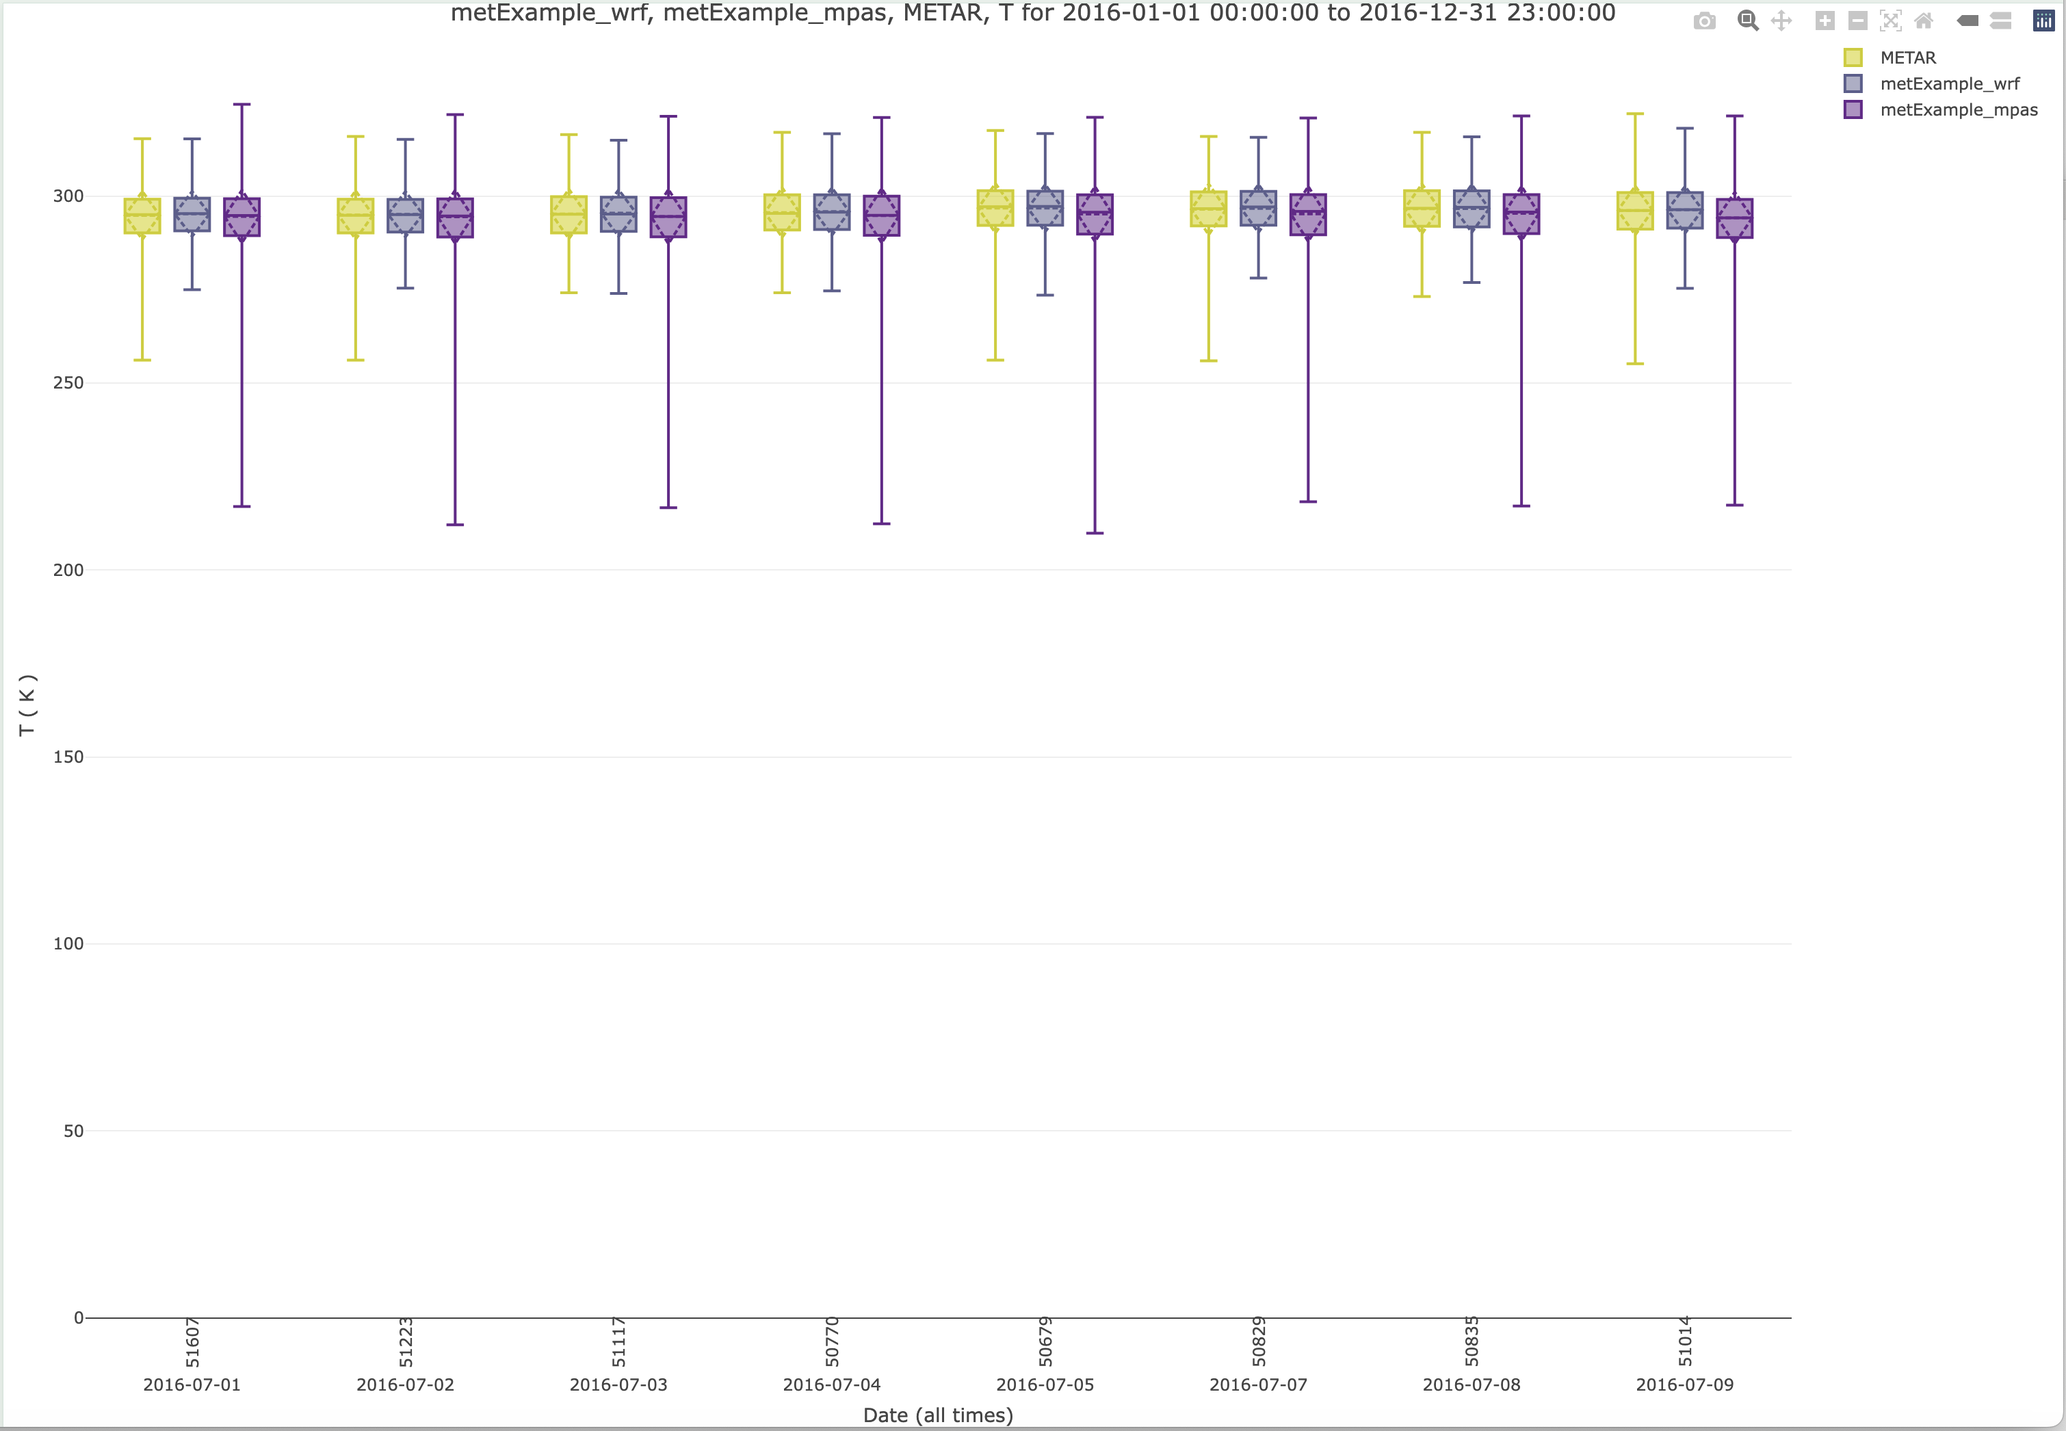
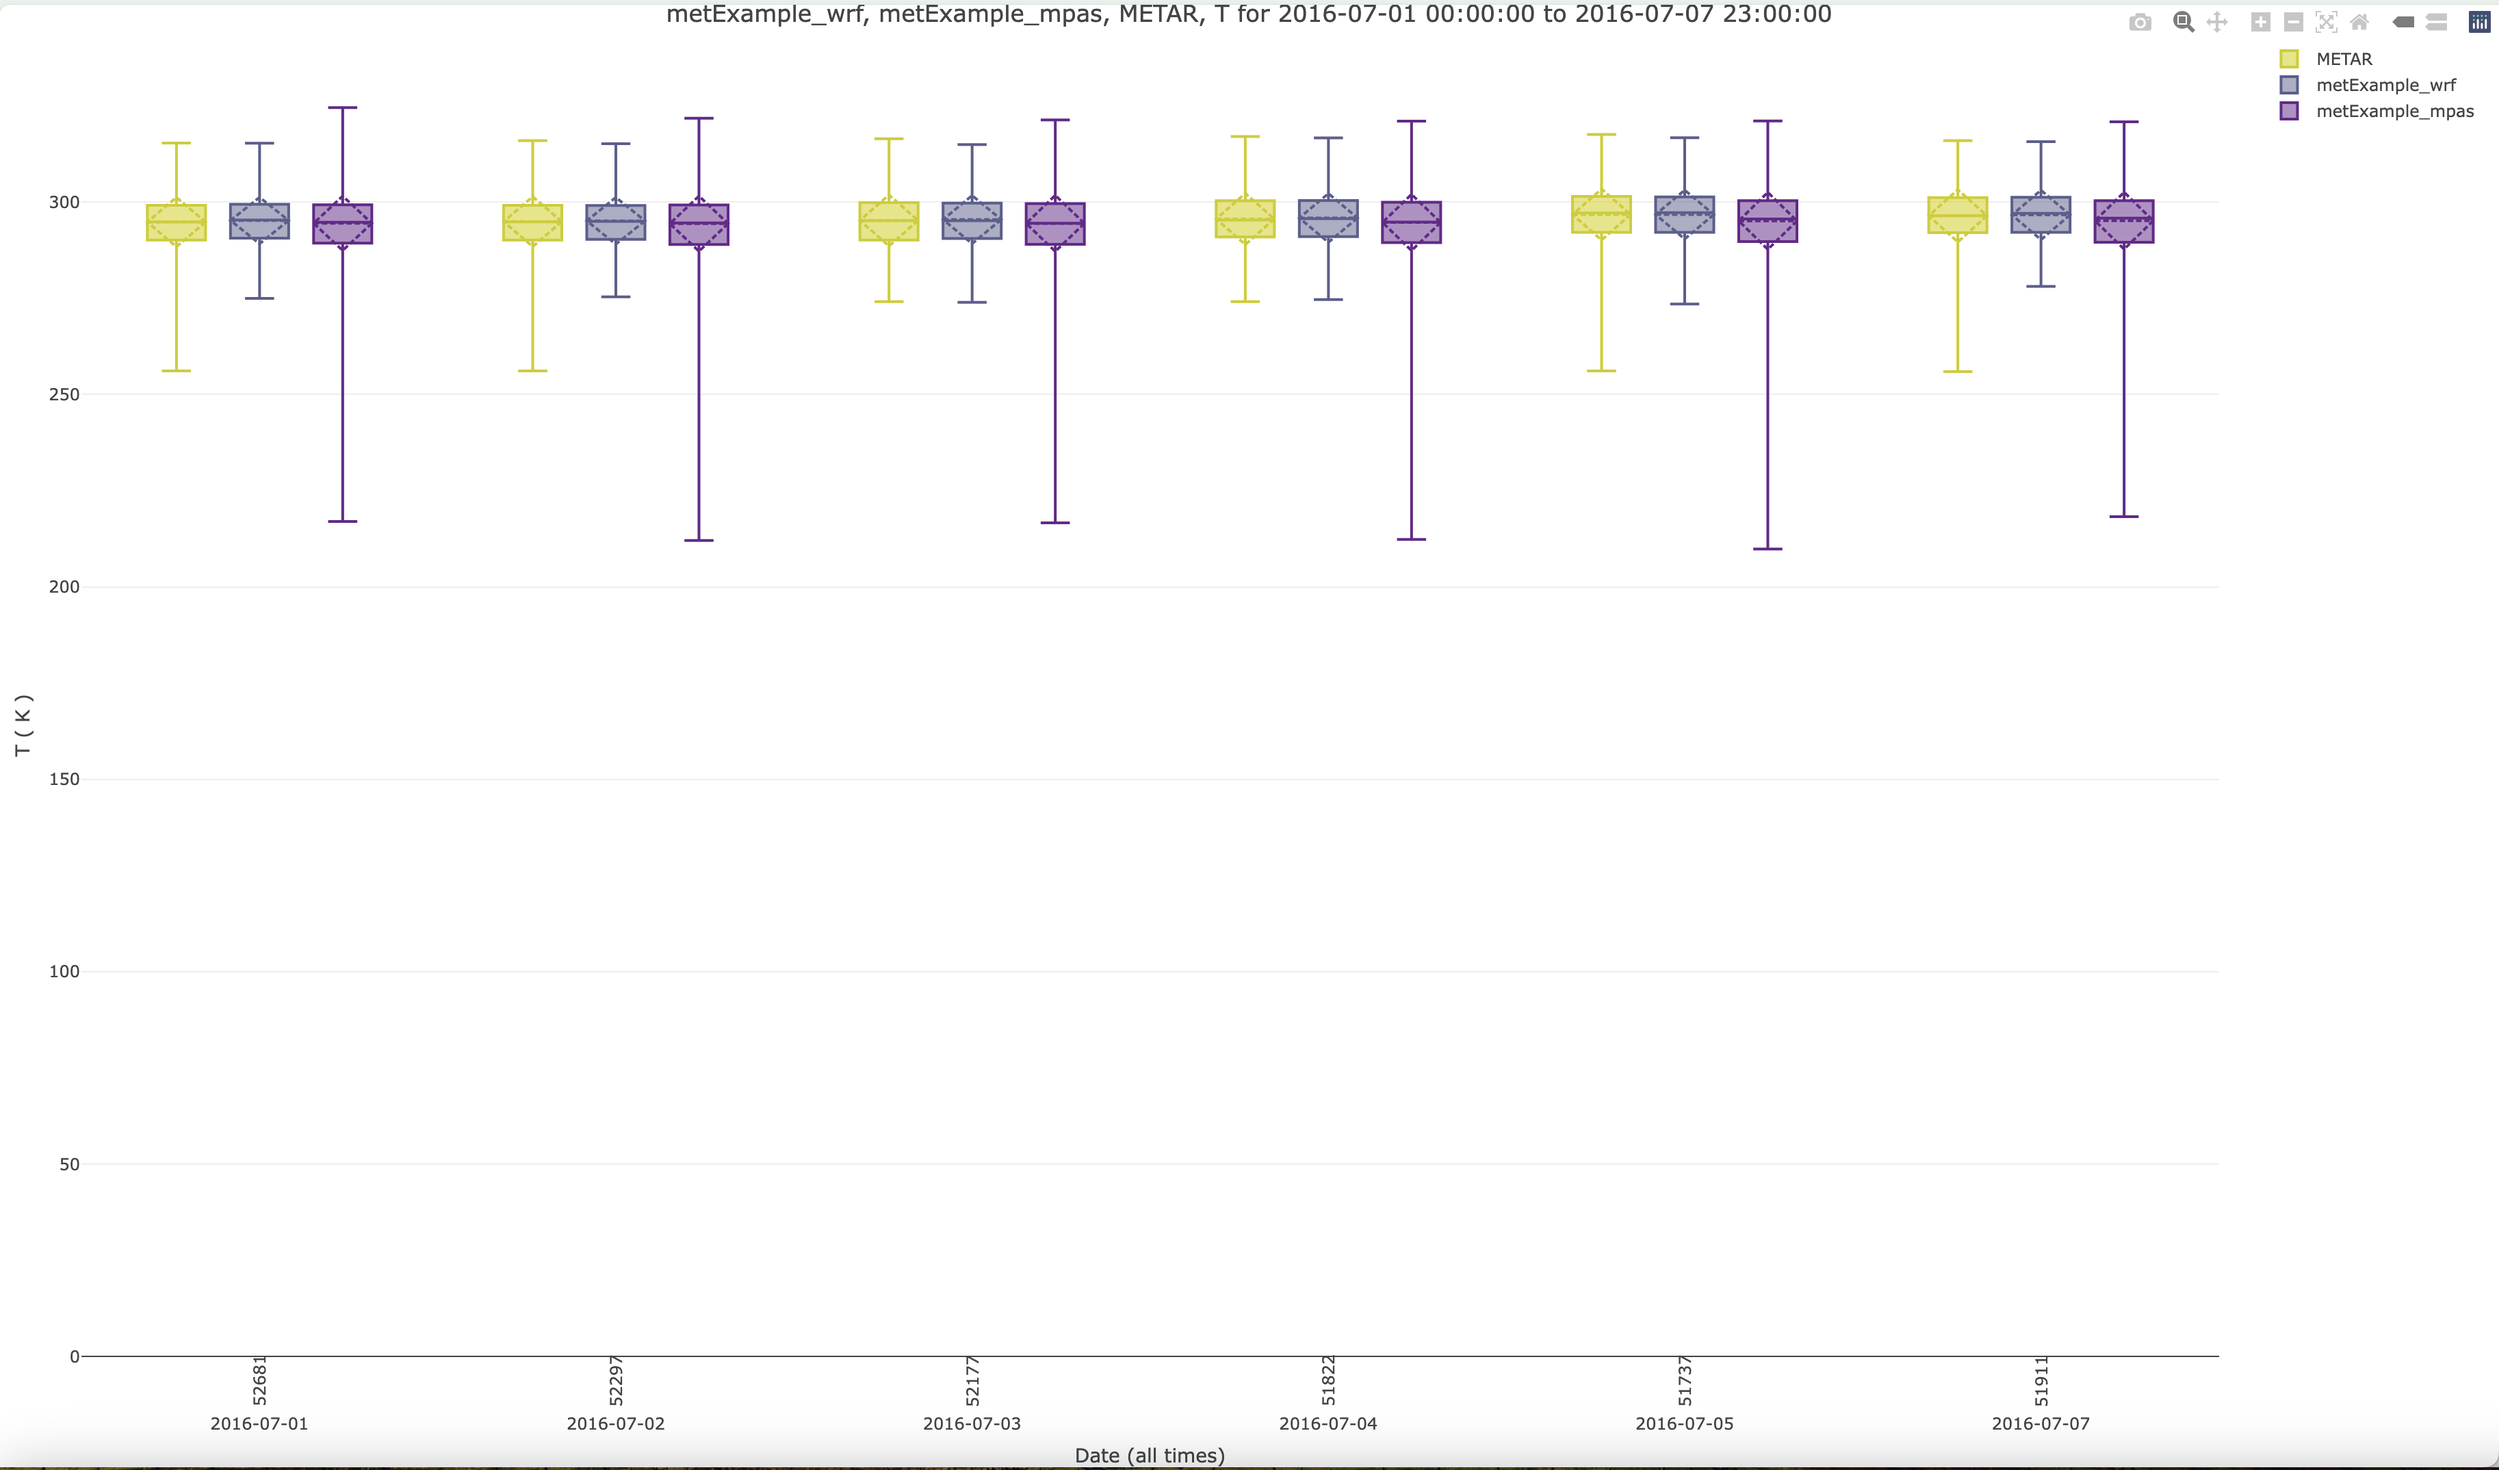
update

diff --git a/docs/user_guide_pcluster/amet/ami_website.md b/docs/user_guide_pcluster/amet/ami_website.md
@@ -2078,16 +2078,54 @@ Boxplot of T2 Bias
 
 ## Create Plotly Boxplot using METAR Met Observations and T(2m) Model Values
 
-Under Met Observation Networks
-Choose METAR
+<ul>
+<li>Under Met Observation Networks
+<ul>
+<li>Choose METAR</li>
+</ul>
+</li>
+</ul>
 
-Under Met Variable to Use
-Select T(2m) 
+<ul>
+<li> Under Met Variable to Use
+<ul>
+<li>Select T(2m)</li>
+</ul>
+</li>
+</ul>
+
 
 ![AMET Website Select Obs Network and Species](./met_plots/amet_select_METAR_and_T2.png)
 
-Under Choose Program to Run
-Plotly Boxplot (single network, multi-run)
+<ul>
+<li>Under Date and Time Criteria select 1 week of data (plot may exceed memory and crash if using full month)
+<ul> 
+<li>Select Start Date</li>
+<ul>
+<li> Year: 2018</li>
+<li> Month: 07</li>
+<li> Day: 01</li>
+</ul>
+</ul>
+<ul>
+<li>Select End Date</li>
+<ul>
+<li> Year: 2018</li>
+<li> Month: 07</li>
+<li> Day: 07</li>
+</ul>
+</ul>
+</li>
+</ul>
+
+
+<ul>
+<li>Under Choose Program to Run
+<ul>
+<li>Plotly Boxplot (single network, multi-run)</li>
+</ul>
+</li>
+</ul>
 
 ![Query Result](./met_plots/amet_result_query_boxplot_plotly.png)
 
@@ -2095,7 +2133,13 @@ Plotly Boxplot of T2
 
 ![Plotly Boxplot of T2 ](./met_plots/metExample_wrf_T_boxplot_plotly.png)
 
-Note, the Bias and Normalized Bias Plots were not created successfully.
+Plotly Bias Plot of T2
+
+![Plotly Boxplot of T2 ](./met_plots/metExample_wrf_T_boxplot_plotly_bias.png)
+
+Plotly NMB Plot of T2
+
+![Plotly Boxplot of T2 ](./met_plots/metExample_wrf_T_boxplot_plotly_nmb.png)
 
 ## Create Interactive Hourly Timeseries of T2 using Plotly
 
